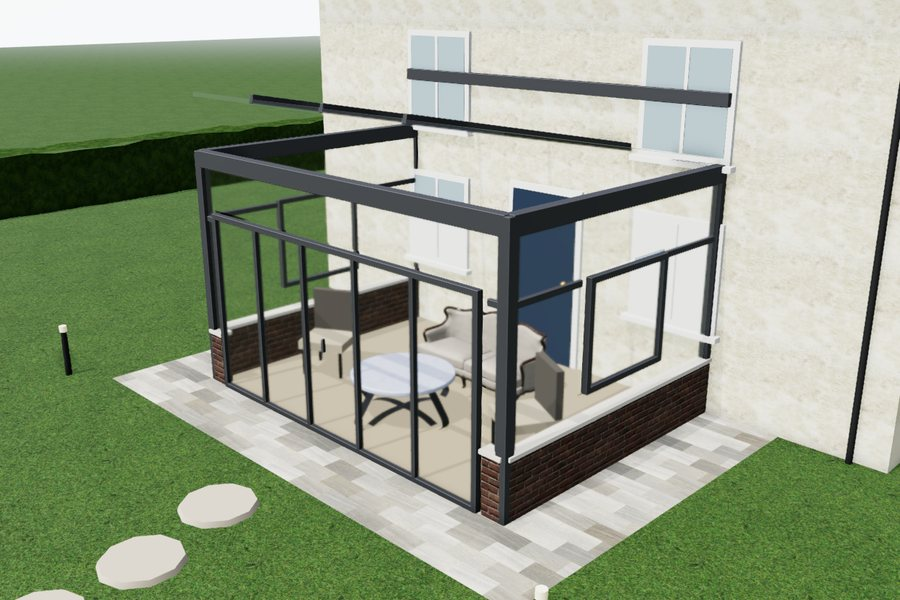
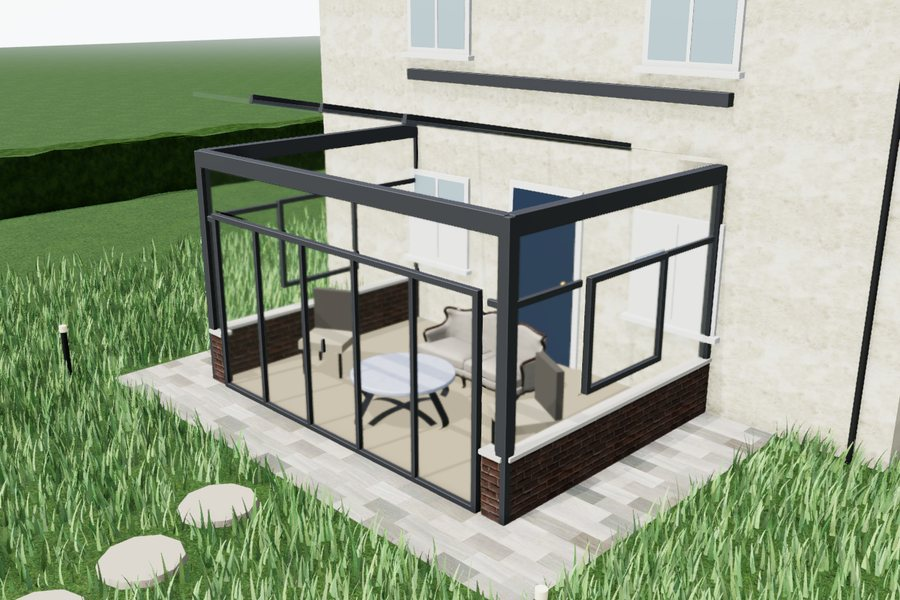
Keep the house facade clear of the roof attachment
Wall-mounted roofs placed the facade's first-floor windows at a fixed height, so a
sloped veranda's back edge and flashing cut straight across them. The roof
builders now record where the roof meets the wall; the facade raises its eaves
to fit two storeys around that line, keeps the first-floor cills above it and
the ground-floor windows below the roof underside. Thumbnails of the nine
wall-mounted products regenerated.

diff --git a/src/components/configurator/Scene.tsx b/src/components/configurator/Scene.tsx
@@ -862,6 +862,7 @@ function createScene(container: HTMLElement, opts: SceneOptions): SceneContext {
   let state: ConfigState | null = null;
   let productScene: string | null = null;
   let lastBuildAt = 0; // the quality probe ignores windows that contain a rebuild
+  let roofWallTop = 0;  // highest point of the roof where it meets the house; the facade keeps its upper windows above it
   let buildCount = 0;
   let view: SceneView = 'iso';
   let timeOfDay = 13;
@@ -1078,6 +1079,7 @@ function createScene(container: HTMLElement, opts: SceneOptions): SceneContext {
     const W = state.length, D = state.depth, H = state.height;
     const fm = frameMaterial();
     fitShadowFrustum(W, D);
+    roofWallTop = H + 0.1;
 
     pad.scale.set(W + 1.6, D + 1.6, 1);
     paverTex.repeat.set((W + 1.6) / 2.4, (D + 1.6) / 2.4);
@@ -1441,8 +1443,10 @@ function createScene(container: HTMLElement, opts: SceneOptions): SceneContext {
       outlet.position.set(pipeX, gutterY - 0.08, (gutterZ + pipeZ) / 2);
       canopyGroup.add(outlet);
     }
+    const backEdgeY = H + 0.03 + lift + Math.tan(slopeAngle) * Dr / 2;
+    roofWallTop = backEdgeY + (isFabric ? 0.22 : 0.06);
     if (state!.structure === 'wallmounted' && !isFabric) {
-      const backEdgeY = H + 0.03 + lift + Math.tan(slopeAngle) * Dr / 2;
+      roofWallTop = backEdgeY + 0.18;
       const flashing = new THREE.Mesh(PB(Wr + 0.12, 0.16, 0.025), fm);
       flashing.position.set(0, backEdgeY + 0.1, -D / 2 - 0.005);
       flashing.castShadow = true;
@@ -1721,6 +1725,9 @@ function createScene(container: HTMLElement, opts: SceneOptions): SceneContext {
 
     // Optional house backdrop behind the extension
     if (state.houseBackdrop && state.houseBackdrop !== 'none') {
+      const shape = state.extensionRoof?.shape;
+      const ridgeH = Math.min(D, W) * 0.28;
+      roofWallTop = shape === 'mono' ? totalH + ridgeH + 0.1 : shape === 'flat' ? totalH + 0.35 : totalH + 0.15;
       buildHouse(W, D, H);
     }
 
@@ -2159,6 +2166,7 @@ function createScene(container: HTMLElement, opts: SceneOptions): SceneContext {
     else if (style === 'conservatory-orangery')  buildOrangeryRoof(W, D, H, brickKey);
     else if (style === 'conservatory-victorian') buildVictorianRoof(footprint, H);
 
+    roofWallTop = style === 'conservatory-leanto' ? H + D * 0.18 + 0.14 : style === 'conservatory-orangery' ? H + 0.4 : H + 0.1;
     if (state.structure === 'wallmounted') buildHouse(W, D, H);
     if (state.addons.lighting) buildLighting(W, D, H);
     if (state.addons.bar)      buildBarLights(W, D, H);
@@ -2376,7 +2384,11 @@ function createScene(container: HTMLElement, opts: SceneOptions): SceneContext {
   // roof rising away from the viewer and two storeys of windows: it should
   // read as a house, not a wall.
   function buildHouse(W: number, D: number, H: number) {
-    const houseW = W + 4, houseH = H + 1.9, houseT = 0.35;
+    // The roof attaches to this wall at roofWallTop. A real house has its
+    // first-floor cills above the roof line, so the eaves rise to fit two
+    // storeys around the attachment and the window rows stay clear of it.
+    const attach = Math.max(roofWallTop, H + 0.1);
+    const houseW = W + 4, houseH = Math.max(H + 1.9, attach + 1.75), houseT = 0.35;
     const zFace = -D / 2 - 0.02;                 // front face of the house wall
     const wallMat = claddingMaterial(houseW, houseH)
       ?? setMaterial('house-render', 'plaster', 0xf6f3ec, houseW, houseH, { roughness: 0.95, normalScale: 0.45, fallback: { map: plasterTex, color: 0xe9e4da, bump: 0.15 } });
@@ -2420,7 +2432,9 @@ function createScene(container: HTMLElement, opts: SceneOptions): SceneContext {
     canopyGroup.add(knob);
 
     const winGlass = glazing('houseGlass', { tint: 0x9fb4bd, transmission: 0.5, roughness: 0.05, opacity: 0.75, env: 1 });
-    const rows = [1.5, houseH - 1.3].filter(y => y + 0.65 < houseH - 0.05);
+    const lowerY = Math.min(1.5, H - 0.08 - 0.6);   // under the roof, below its underside at the wall
+    const upperY = attach + 0.2 + 0.6;               // first floor: cill 20 cm above the attachment
+    const rows = [lowerY, upperY].filter(y => y - 0.6 > 0.3 && y + 0.65 < houseH - 0.05);
     for (const wy of rows) for (const wx of [-W * 0.40, W * 0.40]) {
       const f = new THREE.Mesh(new THREE.BoxGeometry(1.1, 1.2, 0.06), trimMat);
       f.position.set(wx, wy, zFace + 0.015);
